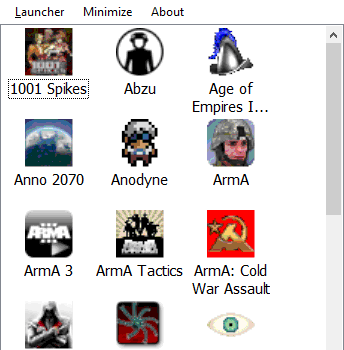
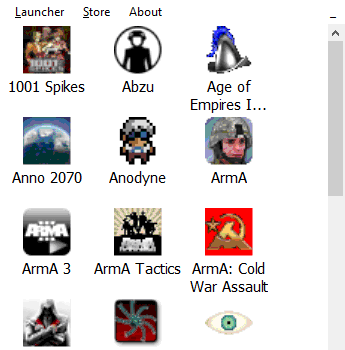
Made the GUI a bit nicer and updated the pictures

diff --git a/UnifiedGameLauncher/Options.Designer.cs b/UnifiedGameLauncher/Options.Designer.cs
@@ -51,25 +51,25 @@
             this.groupBox1.Controls.Add(this.pictureBox1);
             this.groupBox1.Location = new System.Drawing.Point(13, 13);
             this.groupBox1.Name = "groupBox1";
-            this.groupBox1.Size = new System.Drawing.Size(1026, 380);
+            this.groupBox1.Size = new System.Drawing.Size(1064, 380);
             this.groupBox1.TabIndex = 0;
             this.groupBox1.TabStop = false;
             this.groupBox1.Text = "Style (click on an image to change the style)";
             // 
             // pictureBox3
             // 
-            this.pictureBox3.Location = new System.Drawing.Point(683, 19);
+            this.pictureBox3.Location = new System.Drawing.Point(709, 20);
             this.pictureBox3.Name = "pictureBox3";
-            this.pictureBox3.Size = new System.Drawing.Size(332, 350);
+            this.pictureBox3.Size = new System.Drawing.Size(345, 350);
             this.pictureBox3.TabIndex = 2;
             this.pictureBox3.TabStop = false;
             this.pictureBox3.Click += new System.EventHandler(this.pictureBox3_Click);
             // 
             // pictureBox2
             // 
-            this.pictureBox2.Location = new System.Drawing.Point(345, 20);
+            this.pictureBox2.Location = new System.Drawing.Point(358, 20);
             this.pictureBox2.Name = "pictureBox2";
-            this.pictureBox2.Size = new System.Drawing.Size(332, 350);
+            this.pictureBox2.Size = new System.Drawing.Size(345, 350);
             this.pictureBox2.TabIndex = 1;
             this.pictureBox2.TabStop = false;
             this.pictureBox2.Click += new System.EventHandler(this.pictureBox2_Click);
@@ -78,7 +78,7 @@
             // 
             this.pictureBox1.Location = new System.Drawing.Point(7, 20);
             this.pictureBox1.Name = "pictureBox1";
-            this.pictureBox1.Size = new System.Drawing.Size(332, 350);
+            this.pictureBox1.Size = new System.Drawing.Size(345, 350);
             this.pictureBox1.TabIndex = 0;
             this.pictureBox1.TabStop = false;
             this.pictureBox1.Click += new System.EventHandler(this.pictureBox1_Click);
@@ -120,7 +120,7 @@
             // 
             // button1
             // 
-            this.button1.Location = new System.Drawing.Point(964, 447);
+            this.button1.Location = new System.Drawing.Point(994, 447);
             this.button1.Name = "button1";
             this.button1.Size = new System.Drawing.Size(75, 23);
             this.button1.TabIndex = 2;
@@ -130,7 +130,7 @@
             // 
             // button2
             // 
-            this.button2.Location = new System.Drawing.Point(788, 447);
+            this.button2.Location = new System.Drawing.Point(818, 447);
             this.button2.Name = "button2";
             this.button2.Size = new System.Drawing.Size(159, 23);
             this.button2.TabIndex = 3;
@@ -142,7 +142,7 @@
             // 
             this.AutoScaleDimensions = new System.Drawing.SizeF(6F, 13F);
             this.AutoScaleMode = System.Windows.Forms.AutoScaleMode.Font;
-            this.ClientSize = new System.Drawing.Size(1051, 479);
+            this.ClientSize = new System.Drawing.Size(1081, 479);
             this.Controls.Add(this.button2);
             this.Controls.Add(this.button1);
             this.Controls.Add(this.groupBox2);

diff --git a/UnifiedGameLauncher/Form1.cs b/UnifiedGameLauncher/Form1.cs
@@ -45,12 +45,16 @@ namespace UnifiedGameLauncher
                 gameList.ForeColor = Color.Black;
                 menuStrip1.BackColor = Color.White;
                 menuStrip1.ForeColor = Color.Black;
+                button1.BackColor = Color.White;
+                button1.ForeColor = Color.Black;
             } else
             {
                 gameList.BackColor = Color.FromArgb(50, 50, 50);
                 gameList.ForeColor = Color.White;
                 menuStrip1.BackColor = Color.FromArgb(50, 50, 50);
                 menuStrip1.ForeColor = Color.White;
+                button1.BackColor = Color.FromArgb(50, 50, 50);
+                button1.ForeColor = Color.White;
             }
         }
 

diff --git a/UnifiedGameLauncher/EditGame.Designer.cs b/UnifiedGameLauncher/EditGame.Designer.cs
@@ -51,6 +51,7 @@
             this.browseImage.TabIndex = 1004;
             this.browseImage.Text = "Browse...";
             this.browseImage.UseVisualStyleBackColor = true;
+            this.browseImage.Click += new System.EventHandler(this.browseImage_Click_1);
             // 
             // gameImagePreview
             // 
@@ -111,6 +112,7 @@
             this.browseExecutable.TabIndex = 1002;
             this.browseExecutable.Text = "Browse...";
             this.browseExecutable.UseVisualStyleBackColor = true;
+            this.browseExecutable.Click += new System.EventHandler(this.browseExecutable_Click_1);
             // 
             // label3
             // 

diff --git a/UnifiedGameLauncher/EditGame.cs b/UnifiedGameLauncher/EditGame.cs
@@ -126,5 +126,15 @@ namespace UnifiedGameLauncher
 
             this.Close();
         }
+
+        private void browseExecutable_Click_1(object sender, EventArgs e)
+        {
+            ShowOpenDialog("Executables|*.exe", gameExecutable, gameImagePreview, gameName, gameImage);
+        }
+
+        private void browseImage_Click_1(object sender, EventArgs e)
+        {
+            ShowOpenDialog("Images|*.png;*.jpg;*.jpeg;*.bmp|Executables|*.exe", gameImage, gameImagePreview);
+        }
     }
 }

diff --git a/UnifiedGameLauncher/Form1.Designer.cs b/UnifiedGameLauncher/Form1.Designer.cs
@@ -63,6 +63,7 @@
             // 
             // gameList
             // 
+            this.gameList.BorderStyle = System.Windows.Forms.BorderStyle.None;
             this.gameList.Font = new System.Drawing.Font("Tahoma", 11.25F, System.Drawing.FontStyle.Regular, System.Drawing.GraphicsUnit.Point, ((byte)(0)));
             this.gameList.FullRowSelect = true;
             this.gameList.Location = new System.Drawing.Point(0, 24);
